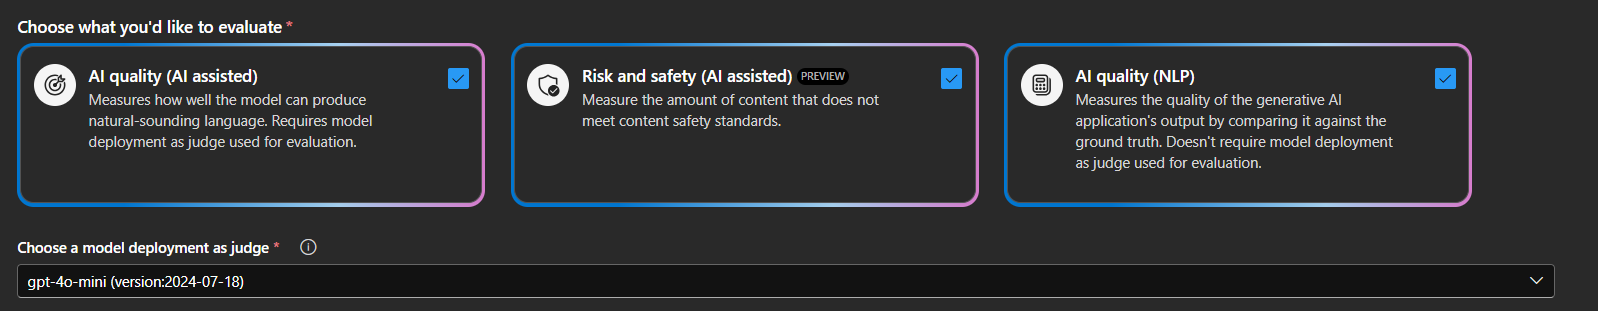
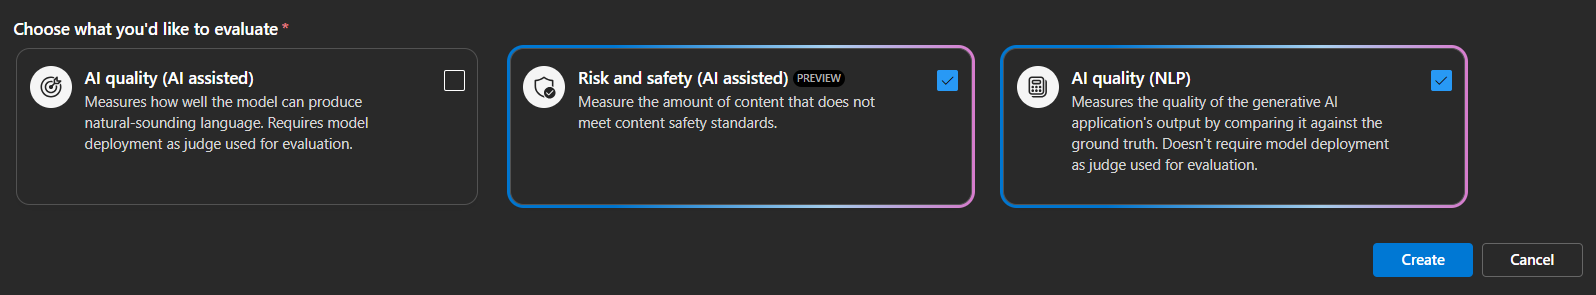
updated

Changed region(s): [[0.0, 0.061, 0.9211, 0.7322], [0.0, 0.7627, 0.9825, 0.9763]]

diff --git a/Day-1/1.4.1-Evaluation.md b/Day-1/1.4.1-Evaluation.md
@@ -40,7 +40,7 @@ You can use Manual evaluation option to feed more than one prompts at a time to 
    - Expected response: Yes, Perksplus covers horsebackriding
 
    - Input: Do we have holiday on President's day?
-   - Expected response: Yes, President's Day is a holiday according to the Contoso Electronics Holidays Calendar for 2025. It falls on February 17
+   - Expected response: Yes, President's Day is a holiday according to the Contoso Electronics Holidays Calendar for 2025. It falls on February 17th.
 
 *Alternatively, you can also upload csv or jsonl file with these columns and import this data using **Import test data** option*  
    
@@ -79,23 +79,28 @@ Then an evaluation creation wizard appears to guide you through the process of s
    - For **Select the data you want to evaluate**: Add your dataset
    - Use any test datasets (.jsonl files) available in the data folder and upload it to the UI.
    - Once you upload file, you will see top 3 rows/prompts gets loaded on the screen as shown below: 
+   
    ![alt text](../images/14_image-4.png)
+
    - Make sure data column mapping is set as below:
+
    ![alt text](../images/14_image-6.png)
 
-4. Choose all 3 type of evaluations as shown below: 
+4. Choose all 2 type of evaluations AI quality(NLP) and Risk and safety(AI assisted) as shown below : 
 
-   ![alt text](../images/14_image-5.png)
+   ![alt text](../images/14_image-5.png)      
 
-   *Note: Risk/Safety evaluations are in preview may not be available in only few regions at the time of creating these instructions. So please check if it is available in your region* 
+   **Importnat Note:**
+   - *Risk/Safety evaluations are in preview may not be available in only few regions at the time of creating these instructions. So please check if it is available in your region* 
+   - *If you select AI Quality (AI assisted) evaluation, make sure to select GPT 4/4o or 4o-mini models or any other supported models as a judge. Not all models are supported and can be used as a Judge. Please refer latest documentation (added in references) for details.
+   Also, at the time of creation of these instructions, this option would require key based authentication for AOAI model connection. So, you will have to do changes to the connections to use key authentication instead of Entra ID. (This requirement may change in future)*
 
-6. Make sure you have selected GPT 4/4o or 4o-mini models or any other supported models as a judge. 
-Not all models are supported and used as Judge. Please refer latest documentation (added in references) for details.
+5. Click **Create**, to create and submit your evaluations.
 
-7. Click **Create**, to create and submit your evaluations.
 8. Wait for the evaluations to complete, refreshing if necessary. This step may require few minutes to execute as required compute is created and evaluations are executed on that compute. At the end of successful evaluation completion, you will be able to access all the metrics on *Report* tab and details of evaluations on *data* tab. 
 
    ![alt text](../images/14_image-7.png)
+   ![alt text](image.png)
 
 9. Explore the **Metric dashboard** and **Data** for more details.
 
